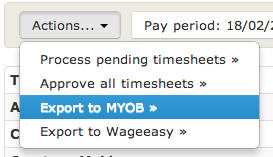
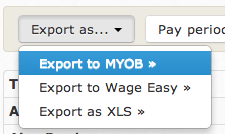
update timesheet export info

diff --git a/_posts/timesheets/2013-02-09-exports.md b/_posts/timesheets/2013-02-09-exports.md
@@ -10,13 +10,9 @@ sort: 5
 
 ### Exporting from PayAus
 
-Timesheet data can be exported into a file readable by MYOB. To do this, click the *Export to MYOB* button on the *Actions...* menu.
+Timesheet data can be exported into a file readable by MYOB. To do this, click the *Export to MYOB* button on the *Export as...* menu. The data exported reflects the timesheets that are currently displaying. So, if you are only viewing an individual employee's timesheets, you can export just their data into MYOB.
 
-![The export to MYOB button on the Actions... menu](/img/timesheets/export_to_myob_timesheets.png)
-
-The data exported reflects the timesheets that are currently displaying. So, if you are only viewing an individual employee's timesheets, you can export just their data into MYOB.
-
-![The export to MYOB button on the Actions... menu](/img/timesheets/myob_export_filtered.png)
+![The export to MYOB button on the Export as... menu](/img/timesheets/export_to_myob_timesheets.png)
 
 When you click the button, a file will be downloaded to your computer. [Click here to see an example file.](/files/MYOB_2012_12_31_1360538855.txt) The file has the extension `.txt`.
 
@@ -49,13 +45,9 @@ When prompted as to which fields to import, select **Match All**. Then, click **
 
 ### Exporting from PayAus
 
-Timesheet data can be exported into a file readable by Wageeasy. To do this, click the *Export to Wage Easy* button on the *Actions...* menu.
+Timesheet data can be exported into a file readable by Wageeasy. To do this, click the *Export to Wage Easy* button on the *Export as...* menu. The data exported reflects the timesheets that are currently displaying. So, if you are only viewing an individual employee's timesheets, you can export just their data into Wage Easy.
 
-![The export to Wageeasy button on the Actions... menu](/img/timesheets/export_to_wageeasy.png)
-
-The data exported reflects the timesheets that are currently displaying. So, if you are only viewing an individual employee's timesheets, you can export just their data into Wage Easy.
-
-![The export to MYOB button on the Actions... menu](/img/timesheets/myob_export_filtered.png)
+![The export to Wageeasy button on the Export as... menu](/img/timesheets/export_to_wageeasy.png)
 
 When you click the button, a file will be downloaded to your computer. [Click here to download an example file.](/files/WageEasy_timesheets_2012_12_31_1361855789.wtc) The file has the extension `.wtc` ("Wage Time Cards"), but it is structured like an [XML](http://en.wikipedia.org/wiki/XML) file, so you can open it in your web browser too. [Click here for more information about the Wage Easy file format.](http://www.wageeasy.com.au/index.htm?payroll/tsimport.htm)
 
